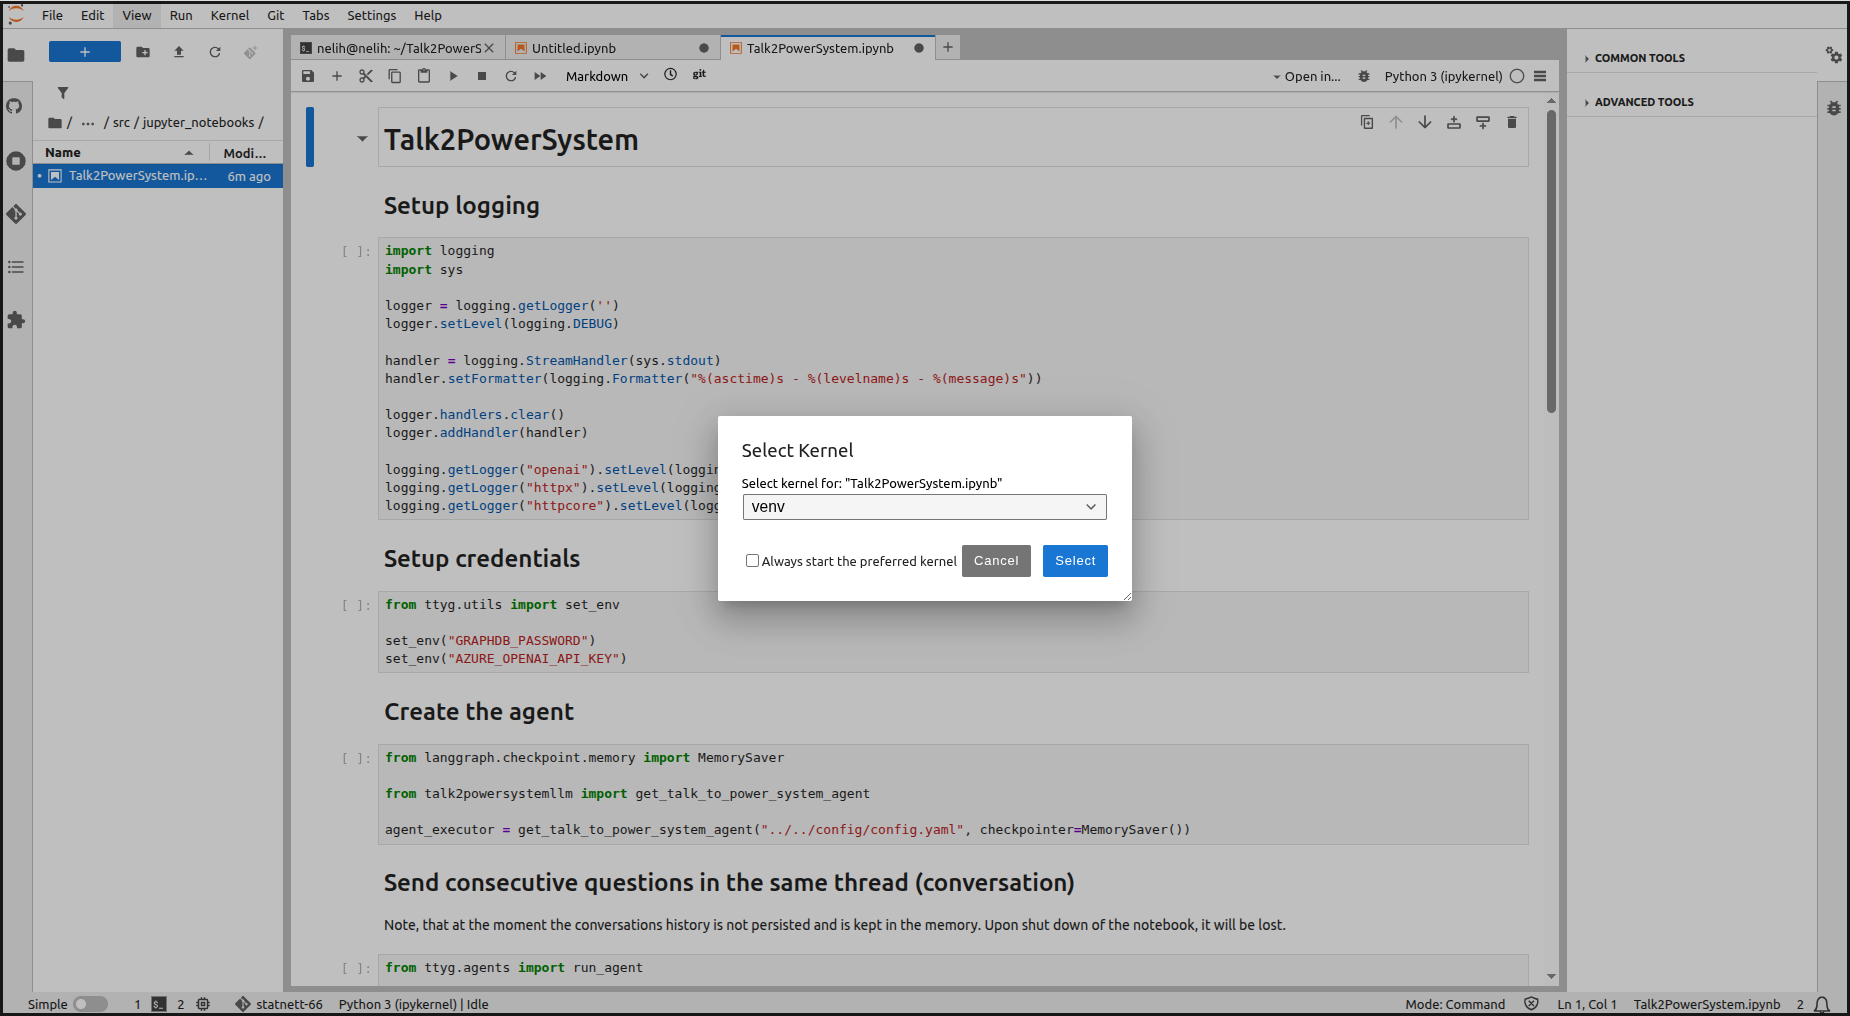
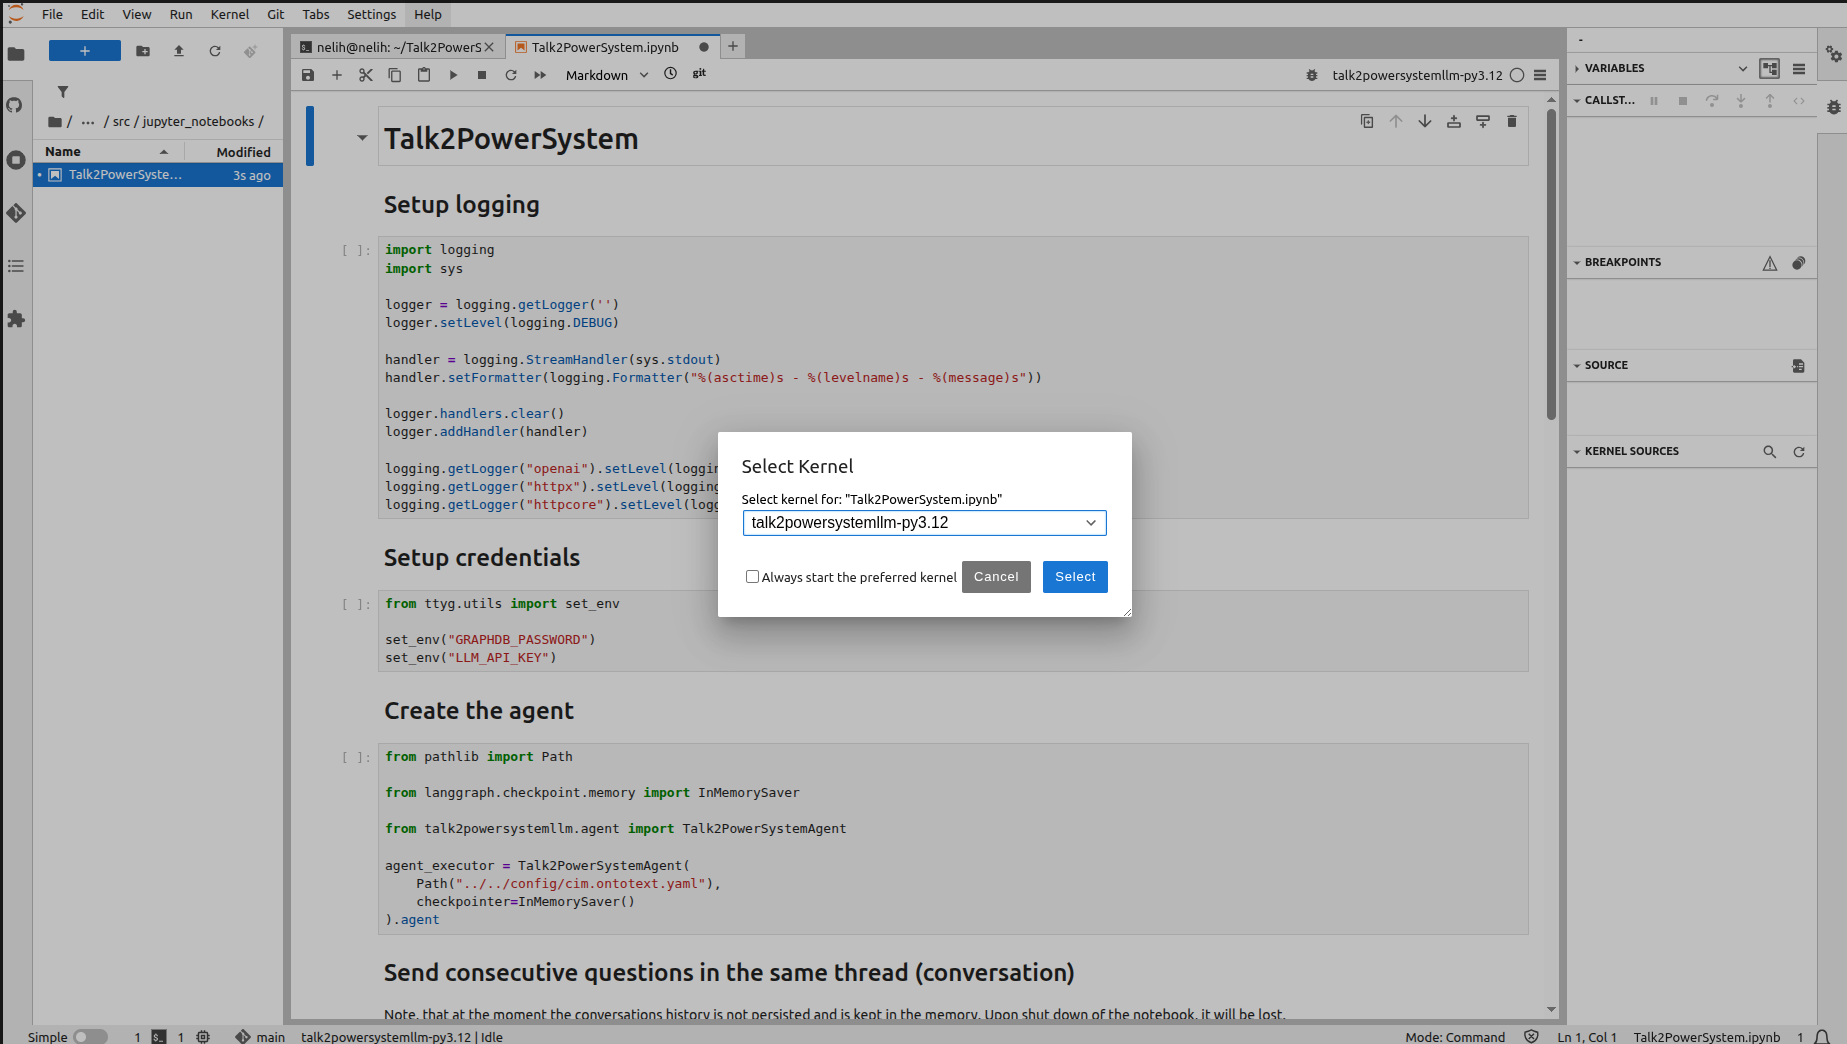
Statnett-184: Update Jupyter Notebook instructions after the RNDP upgrade

diff --git a/docs/JupyterNotebook.md b/docs/JupyterNotebook.md
@@ -42,8 +42,6 @@ It should be your home directory.
   - Execute:
     ```commandline
     cd Talk2PowerSystem_LLM
-    python3 -m venv .venv
-    source .venv/bin/activate
     ```
   - Change the priority of the `statnett` mirroring repository from `supplemental` to `primary` using `nano` text editor:
     ```commandline
@@ -51,12 +49,14 @@ It should be your home directory.
     ```
   - Then:
     ```commandline
+    poetry env use python3.12
     poetry lock
     poetry install
-    python -m ipykernel install --user --name=venv --display-name "venv"
+    source $(poetry env info --path)/bin/activate
+    python -m ipykernel install --user --name=talk2powersystemllm-py3.12 --display-name "talk2powersystemllm-py3.12"
     ```
 - From the file browser navigate to the notebook, it's under `src/jupyter_notebooks/Talk2PowerSystem.ipynb`.
-- From the top right corner switch the kernel to `venv` from the dropdown and click `Select`:
+- From the top right corner switch the kernel to `talk2powersystemllm-py3.12` from the dropdown and click `Select`:
 ![kernel.png](images/kernel.png)
 - Now you should be able to run the notebook
 - You should change this
